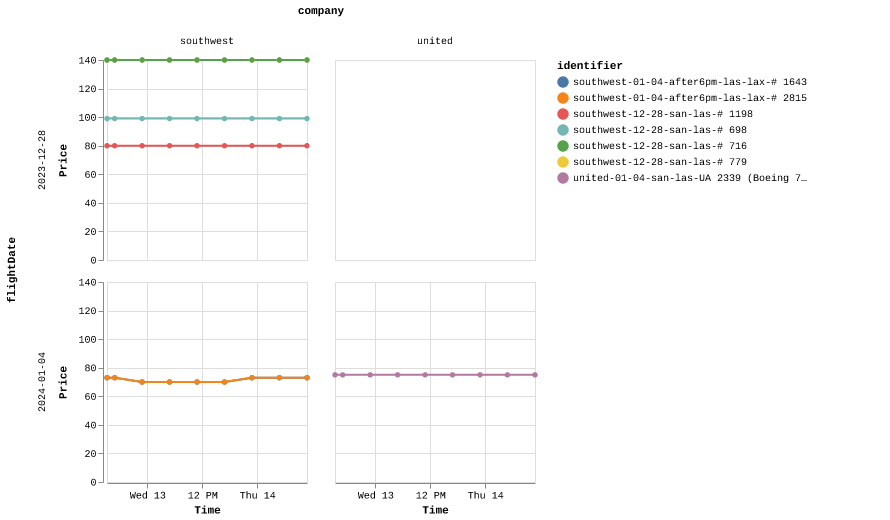
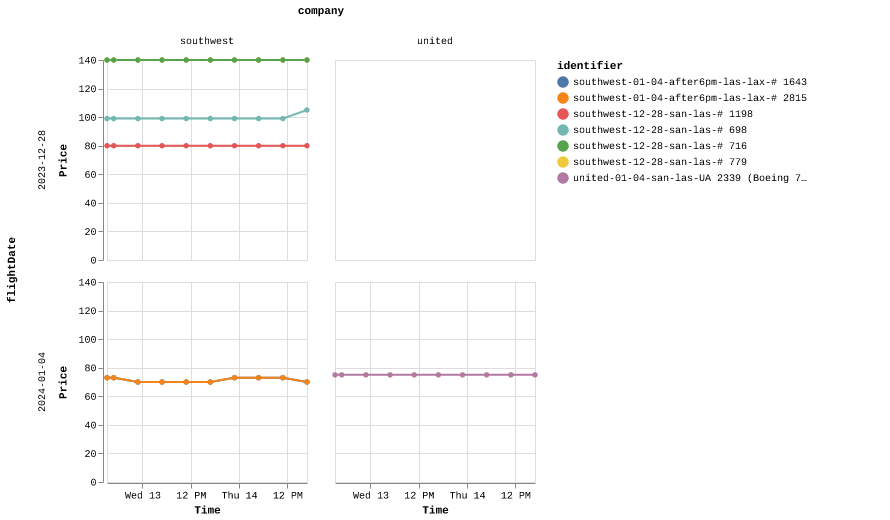
Latest scraping states: Thu Sep 14 16:52:23 UTC 2023

diff --git a/scrapes/states/southwest-12-28-san-las.md b/scrapes/states/southwest-12-28-san-las.md
@@ -22,6 +22,8 @@
     
     80 Dollars$80
     
+    5 left
+    
 * \# 716 Opens flyout.
     
     Departs 9:35AM
@@ -44,6 +46,4 @@
     
     1h 20m
     
-    99 Dollars$99
-    
-    3 left
+    105 Dollars$105

diff --git a/scrapes/states/southwest-01-04-after6pm-las-lax.md b/scrapes/states/southwest-01-04-after6pm-las-lax.md
@@ -8,7 +8,7 @@
     
     1h 15m
     
-    73 Dollars$73
+    70 Dollars$70
     
 * \# 2815 Opens flyout.
     
@@ -20,4 +20,4 @@
     
     1h 10m
     
-    73 Dollars$73
+    70 Dollars$70
